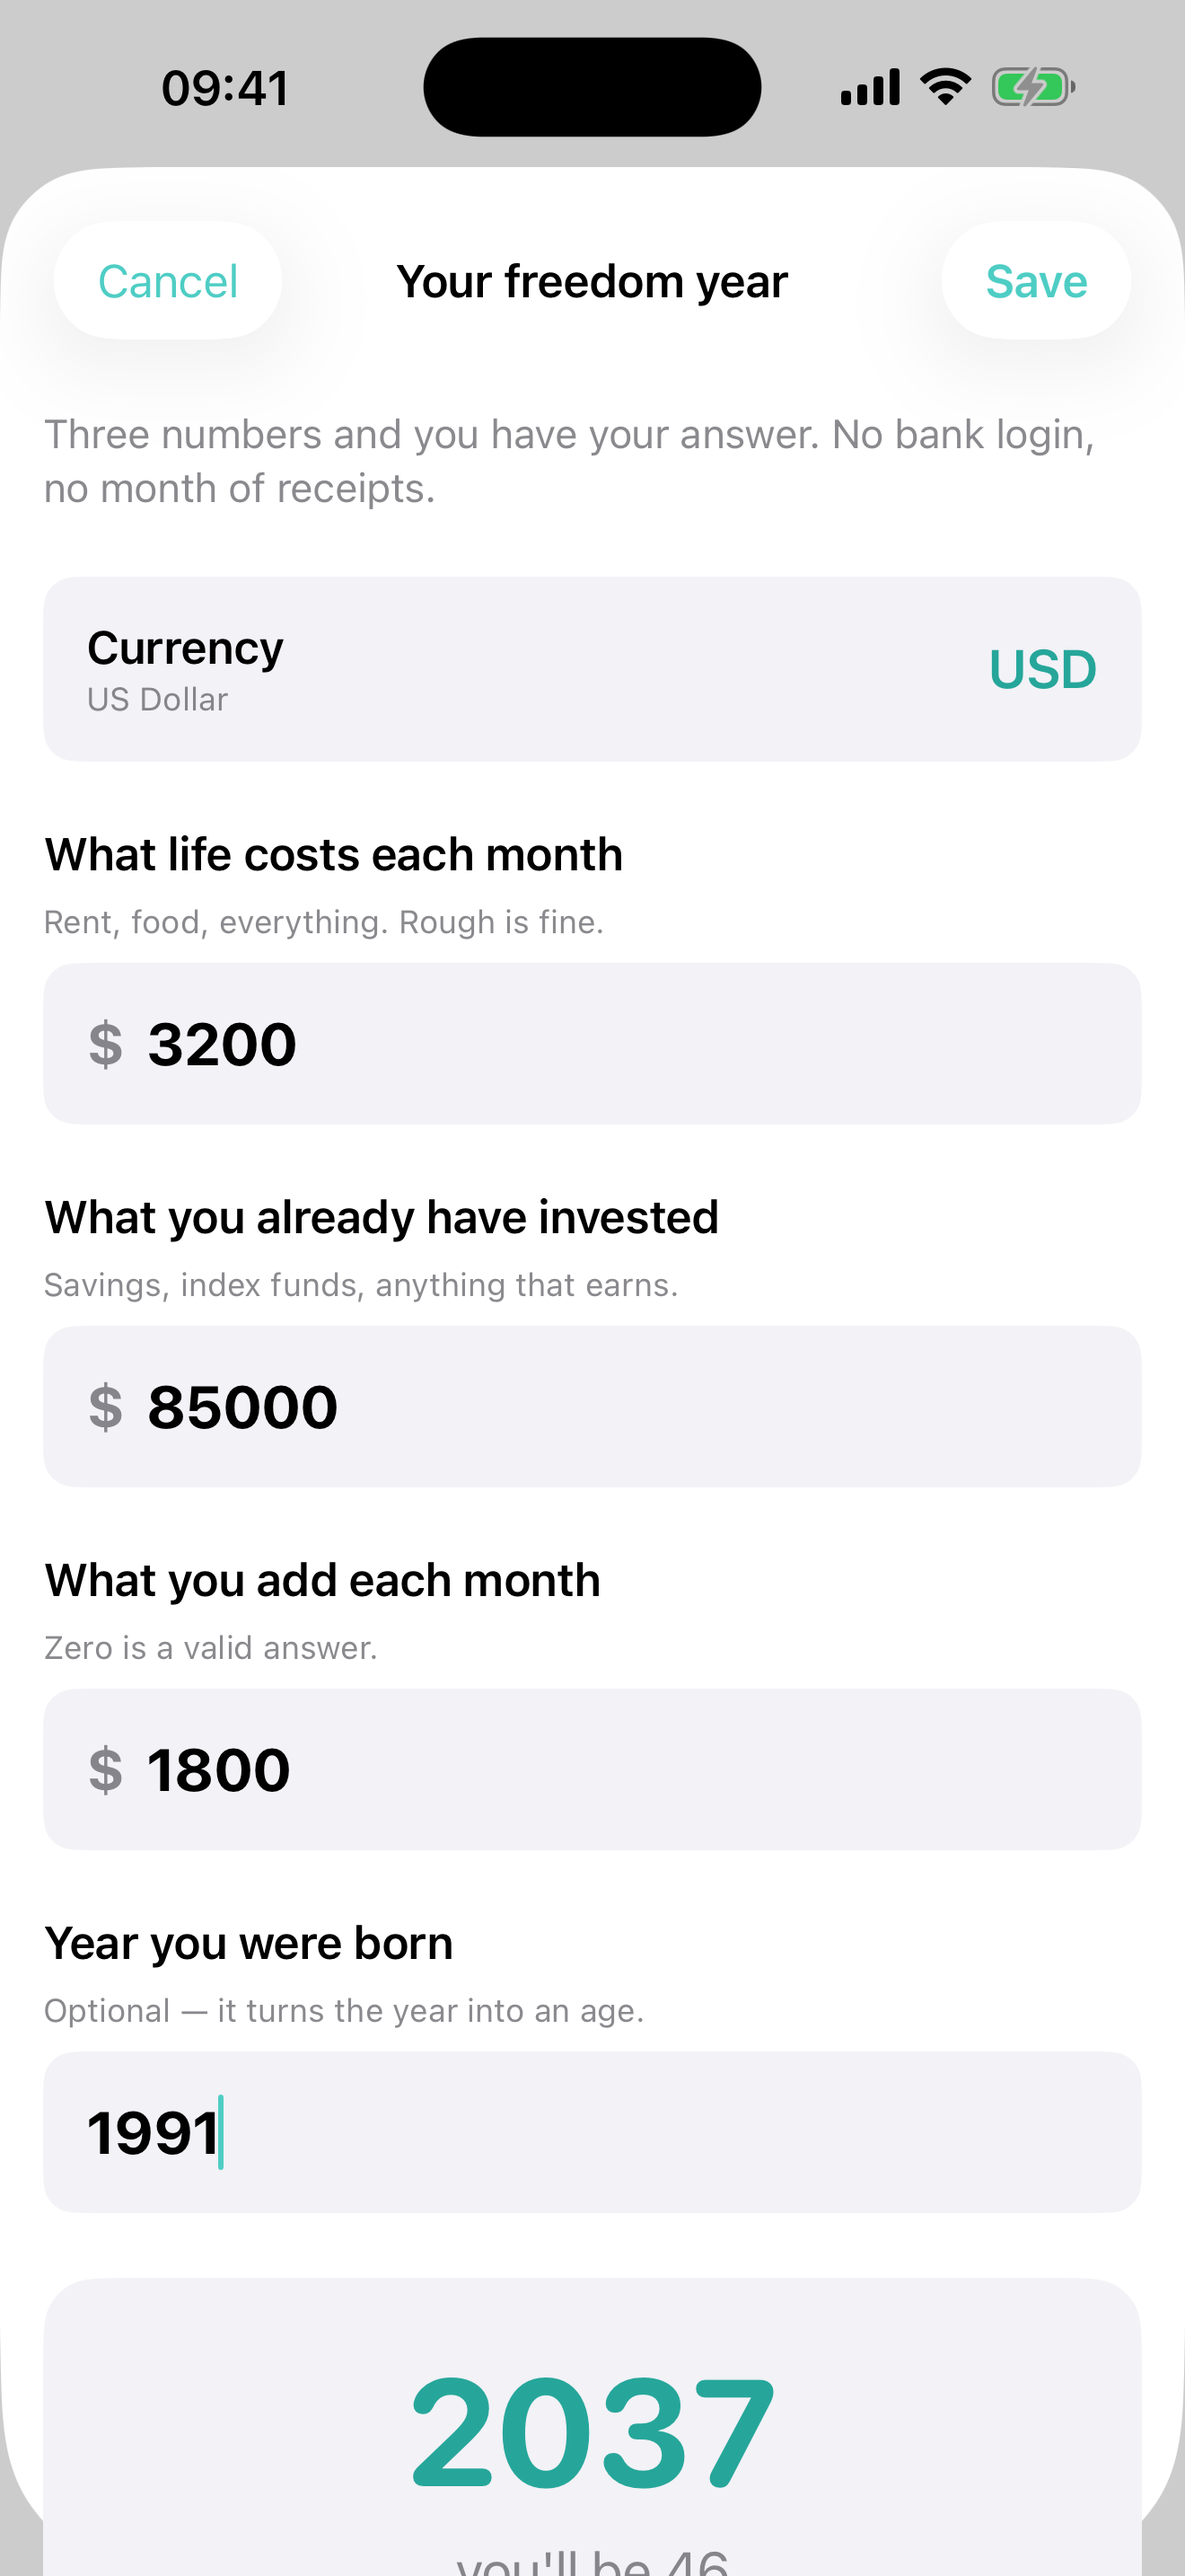
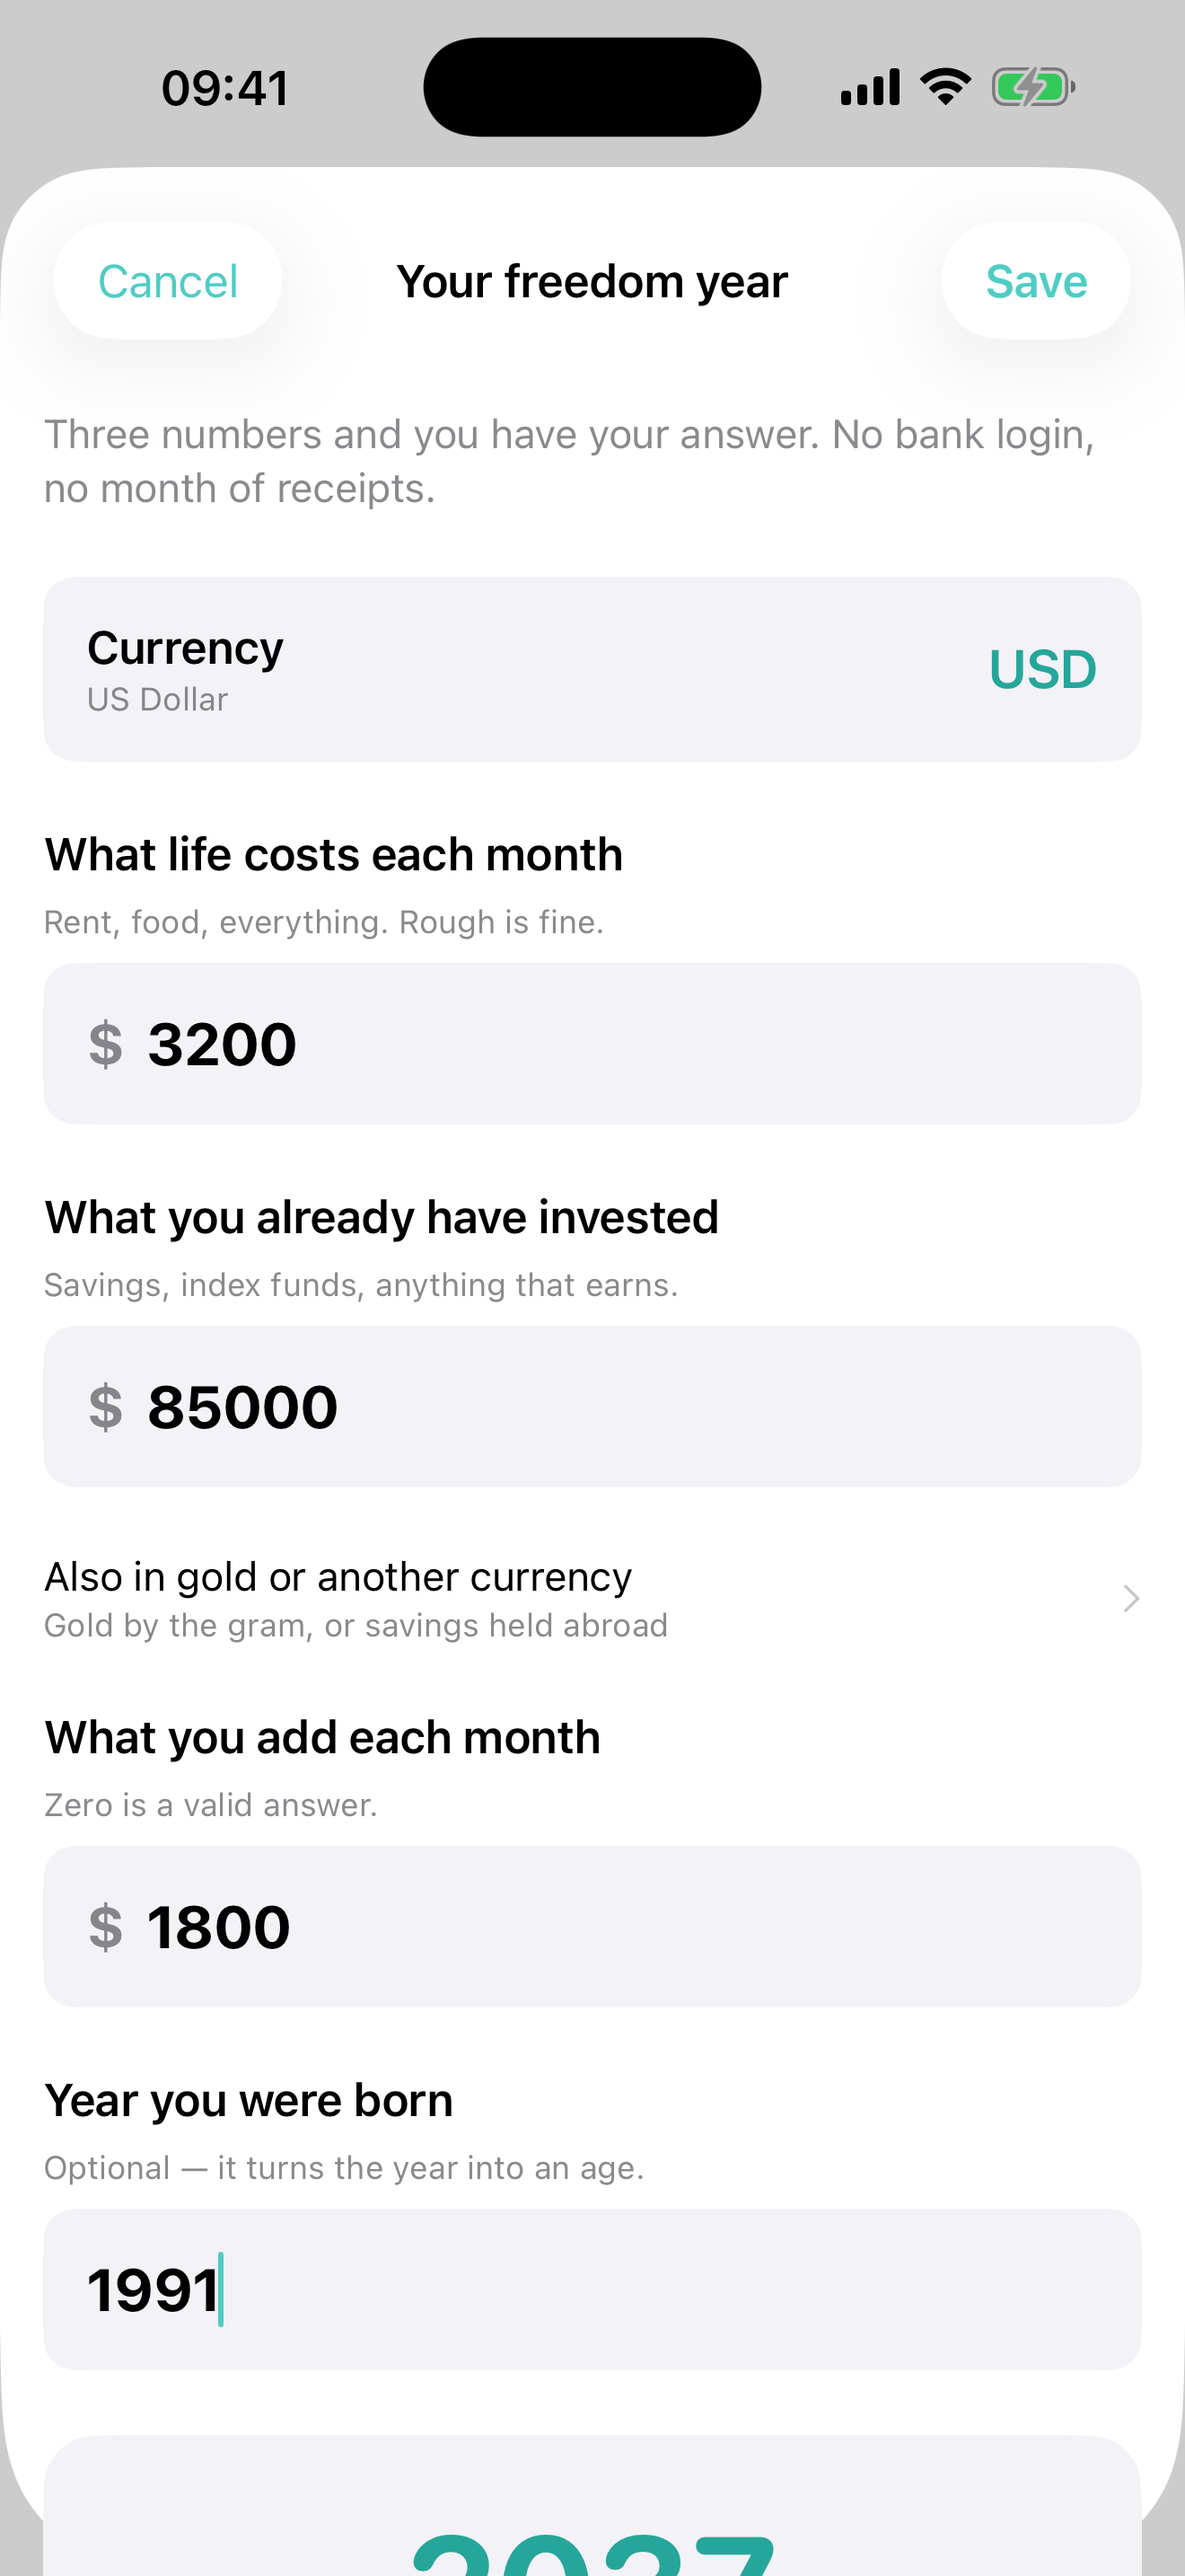
Store assets: seven screenshots, the IAP review shot, and a perk that was fiction
Seven 1320x2868 frames uploaded to App Store Connect (en-US): the promise, the
three numbers, what it would take per month, the answer with two life events,
the life-events screen, the widget on the home screen, and the privacy section.
The IAP review screenshot Apple requires for a non-consumable is uploaded and
UPLOAD_COMPLETE.

While shooting them the simulator exposed two real problems:

- Returning from the gold sheet fired onAppear on the setup form again, and
  seedFromStore then overwrote everything typed with the not-yet-saved plan —
  so Save wrote a plan of zeros and the dashboard fell back to its empty state.
  Seeding now happens once, with a regression test.
- The supporter screen still advertised "as many accounts as you have", a limit
  that does not exist anywhere in the code. Selling the removal of an imaginary
  restriction is exactly what this purchase is not, so the line is gone.

70 tests green.

diff --git a/SuperFinansTests/SuperFinansLogicTests.swift b/SuperFinansTests/SuperFinansLogicTests.swift
@@ -1397,6 +1397,22 @@ final class FreedomEngineTests: XCTestCase {
         XCTAssertEqual(viaCalculator, viaEngine)
     }
 
+    /// Regression: adding a holding writes the plan before the form is saved.
+    /// The form must still carry the typed numbers, not be reset to that write.
+    func testHoldingWriteDoesNotEraseTypedNumbers() {
+        var typed = plan(expenses: 3200_00, savings: 85_000_00, monthly: 1800_00)
+        // What addHolding does: mutate holdings on the stored plan and revalue.
+        typed.holdings = [Holding(unit: "XAU", amount: 200, label: "Wedding gold")]
+        let snapshot = RateSnapshot(rates: ["USD": 1, "XAU": 1 / 139.32], fetchedAt: Date())
+        let saved = typed.revaluingHoldings(using: snapshot)
+
+        XCTAssertEqual(saved.monthlyExpensesMinor, 3200_00)
+        XCTAssertEqual(saved.currentSavingsMinor, 85_000_00)
+        XCTAssertEqual(saved.monthlySavingsMinor, 1800_00)
+        XCTAssertEqual(Double(saved.holdingsValueMinor) / 100, 27_864, accuracy: 10)
+        XCTAssertTrue(saved.isConfigured)
+    }
+
     func testUnconfiguredPlanIsNotServedToTheWidget() {
         let empty = FreedomPlan.empty(currencyCode: "USD")
         XCTAssertFalse(empty.isConfigured)

diff --git a/SuperFinans/Views/Freedom/FreedomSetupView.swift b/SuperFinans/Views/Freedom/FreedomSetupView.swift
@@ -27,6 +27,9 @@ struct FreedomSetupView: View {
     /// on every character: each row bisects the 600-step engine ~18 times, so
     /// the three of them cost tens of thousands of Decimal operations.
     @State private var paceRows: [(years: Int, needed: Int64?)] = []
+    /// onAppear fires again every time a sheet over this form is dismissed, and
+    /// re-seeding then wipes what has been typed with the not-yet-saved plan.
+    @State private var didSeed = false
 
     /// The currency the fields are being typed in.
     private var activeCurrency: String {
@@ -266,6 +269,8 @@ struct FreedomSetupView: View {
     }
 
     private func seedFromStore() {
+        guard !didSeed else { return }
+        didSeed = true
         let p = store.plan
         currency = p.currencyCode
         if p.monthlyExpensesMinor > 0 { expenses = majorString(p.monthlyExpensesMinor) }

diff --git a/SuperFinans/Views/Paywall/SupporterView.swift b/SuperFinans/Views/Paywall/SupporterView.swift
@@ -21,8 +21,6 @@ struct SupporterView: View {
                     header
 
                     VStack(alignment: .leading, spacing: 14) {
-                        perk("building.columns", "As many accounts as you have",
-                             "The free app tracks three, which is enough for most people and not for everyone")
                         perk("tablecells", "CSV export",
                              "Your accounts and transactions as a spreadsheet, not just JSON")
                         perk("heart.text.square", "A line in Settings that says you paid for this",
